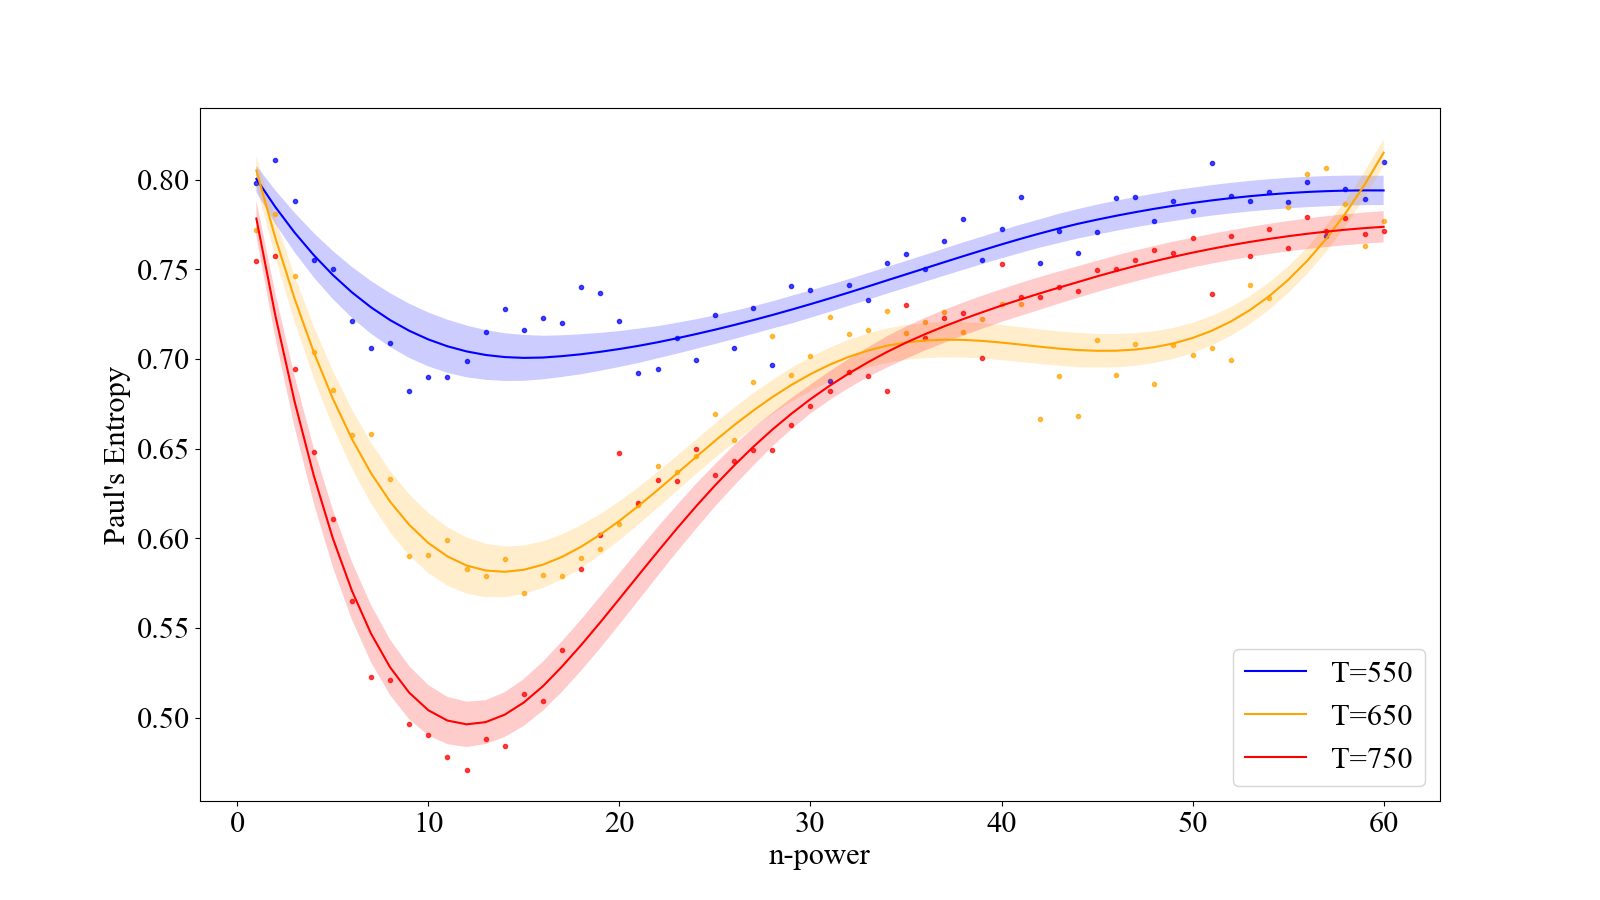
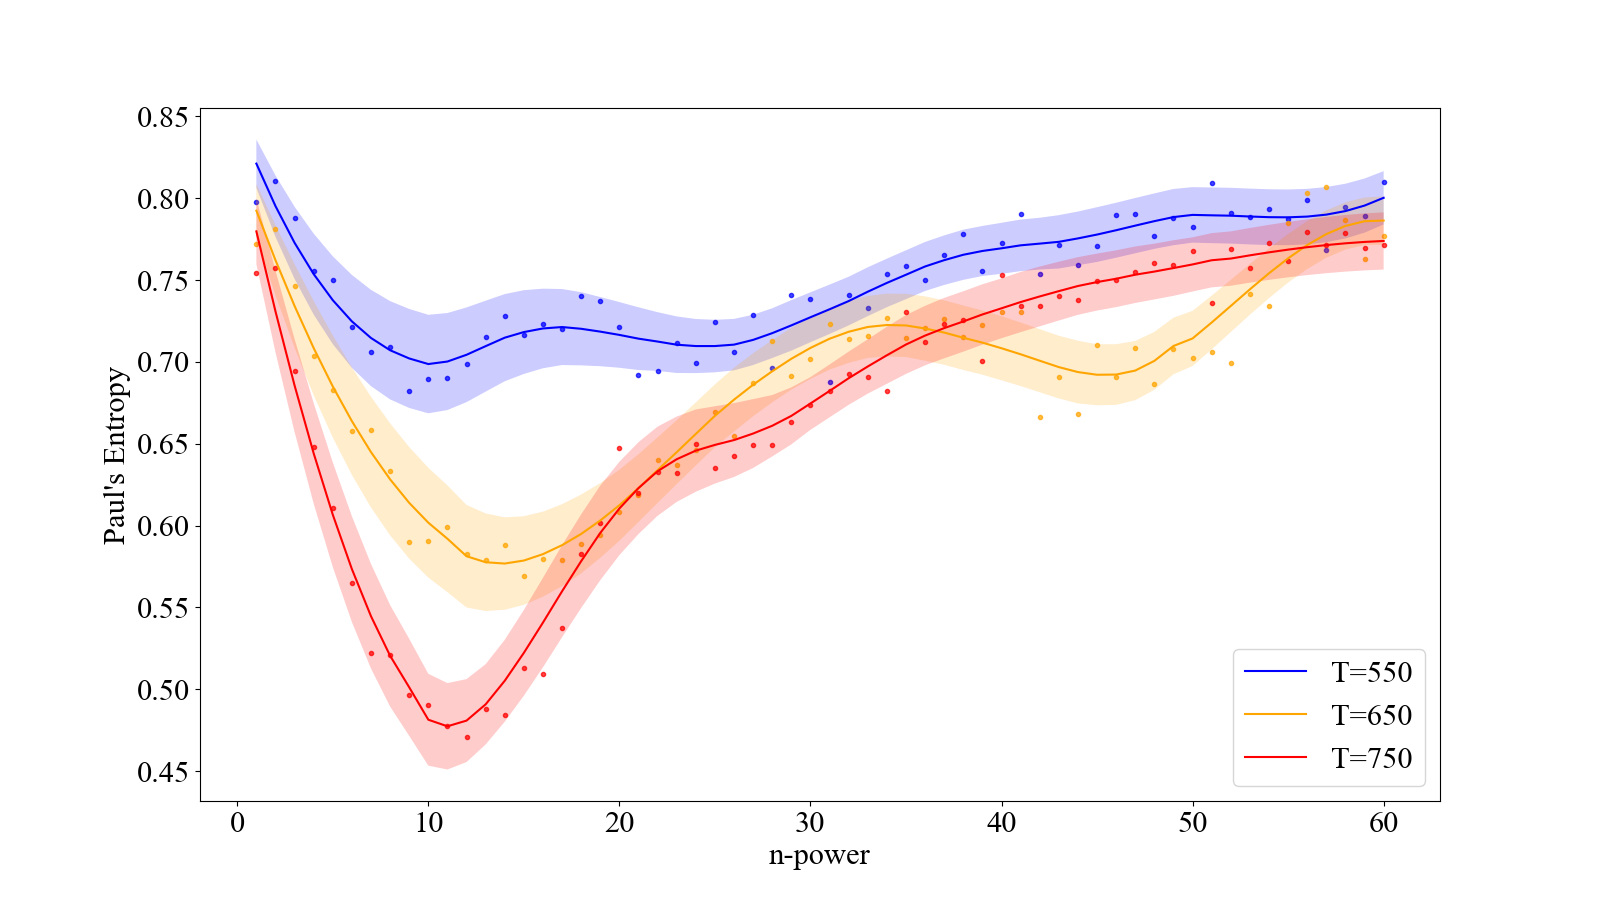
Improvements on Mutual info

diff --git a/MutualInformation/analysis_savgol.py b/MutualInformation/analysis_savgol.py
@@ -58,6 +58,8 @@ data_coefs_flat = data_coefs.reshape(Nt, Nn, N_mem, 200)
 #
 
 
+colors = ["blue", "orange", "red"]
+
 import scipy.signal as sig
 
 
@@ -65,7 +67,6 @@ import scipy.signal as sig
 # Average maximum (absolute) alpha per n
 if False:
     fig, ax = plt.subplots(1, 1, figsize=(16, 9))
-    colors = ["blue", "orange", "red"]
     window_size=[25, 27, 19]
     for h, temp in enumerate(temp_range):
         data_coefs_abs_max = np.mean(np.max(np.abs(data_coefs_flat[h]), axis=-1), axis=-1)
@@ -91,11 +92,10 @@ if False:
 
 
 # Paul Entropy is interesting and non-monotonic
-if False:
+if True:
     fig, ax = plt.subplots(1, 1, figsize=(16, 9))
 
-    colors = ["blue", "orange", "red"]
-    window_size=[33, 33, 33]
+    window_size=[9, 11, 9]
     for h, temp in enumerate(temp_range):
         p_i = np.zeros((Nn, N_mem, 10))
         entropy = np.zeros((Nn, N_mem))
@@ -115,114 +115,153 @@ if False:
                         entropy[i, j] += -p_i[i, j, d]*np.log10(p_i[i, j, d])
 
                     
-        mean_entropy_per_n = np.mean(entropy, axis=-1)
-        mean_entropy_per_n_std = np.std(entropy, axis=-1)*0.1
+        if h < 3:
+            mean_entropy_per_n = np.mean(entropy, axis=-1)
+            mean_entropy_per_n_std = np.std(entropy, axis=-1)*0.2
       
-        filtered = sig.savgol_filter(mean_entropy_per_n, window_size[h], 3)
-        filtered = sig.savgol_filter(filtered, window_size[h], 3)
-
+            filtered = sig.savgol_filter(mean_entropy_per_n, window_size[h], 3)
+            filtered = sig.savgol_filter(filtered, window_size[h]*2, 3)
         
-        ax.plot(n_range, filtered, label="T="+str(temp), color=colors[h])
-        ax.scatter(n_range, mean_entropy_per_n, marker=".", color=colors[h], alpha=0.73) #, edgecolor="k"
-        
-        delta = mean_entropy_per_n_std
-        delta = sig.savgol_filter(delta, 21, 3)
-        
-        ax.fill_between(n_range, filtered + delta, filtered-delta, alpha=0.2, facecolor=colors[h])
-        
+            ax.plot(n_range, filtered, label="T="+str(temp), color=colors[h])
+            ax.scatter(n_range, mean_entropy_per_n, marker=".", color=colors[h], alpha=0.73) #, edgecolor="k"
+            
+            delta = mean_entropy_per_n_std
+            delta = sig.savgol_filter(delta, 21, 3)
+            
+            ax.fill_between(n_range, filtered + delta, filtered-delta, alpha=0.2, facecolor=colors[h])
+            
     ax.set_xlabel("n-power")
     ax.set_ylabel("Paul's Entropy")
     ax.legend()
     plt.savefig("First_20_dominating_samples_entropy_PaulsEntropy_multiT.png")
 
 
+isFirstRun = False
+if isFirstRun:
+    # Combine number of reconstruction with Paul's Entropy
 
-# sum of alpha = 0.5 thing
-window = np.zeros((Nt, Nn, N_mem)) # reconstruct size
-alpha_tol = 0.2
-for h, temp in enumerate(temp_range):
-    for i, n in enumerate(n_range):
-   
-        for j in range(N_mem):
-            i_sort = np.argsort(np.abs(data_coefs_flat[h, i, j]), axis=-1)[::-1]
-            i_sort_sum = np.cumsum(data_coefs_flat[h, i, j, i_sort])
+    # tol = 5 # 1 maybe too strong
+    rs = np.zeros((Nt, Nn, N_mem)) # reconstruct size
+    
+    for h, temp in enumerate(temp_range):
+        for i, n in enumerate(n_range):
+            print(i)
 
-            if np.max(data_coefs_flat[h, i, j]) >= alpha_tol:
-                window[h, i, j] = np.argwhere(i_sort_sum >= alpha_tol)[0] + 1
-            else:
-                window[h, i, j] = len(data_coefs_flat[h, i, j])
+            tol = 784*0.05*np.mean(np.mean(np.abs(data_Ms[h, i]), axis=-1), axis=-1) # Variable tolerance
+            print(temp, n, tol)
 
+            for j in range(N_mem):
+                i_sort = np.argsort(np.abs(data_coefs_flat[h, i, j]), axis=-1)[::-1]
+                
+                for window in range(1, 200):
+                    rM = data_coefs_flat[h, i, j, i_sort[:window]]@data_T[i_sort[:window]]
+                    err = np.sum(np.abs(rM - data_Ms[h, i, j]))
+                    
+                    rs[h, i, j] = window
+                    if err < tol:
+                        break;
+    np.save("rs_relevant_samples.npy", rs)
 
-window_mean = np.mean(window, axis=-1)
-window_std = np.std(window, axis=-1)*0.5
+rs = np.load("rs_relevant_samples.npy")
+rs_mean = np.mean(rs, axis=-1)
+rs_std = np.std(rs, axis=-1)
 
 fig, ax = plt.subplots(1, 1, figsize=(16, 9))
 
-colors = ["blue", "orange", "red"]
-window_size = np.asarray([11, 11, 11])+6
+window_size=[11, 13, 9]
 for h, temp in enumerate(temp_range):
-    #ax.scatter(n_range, window_mean[h], label="T="+str(temp))
-      
-    filtered = sig.savgol_filter(window_mean[h], window_size[h], 4)
-    filtered = sig.savgol_filter(filtered, 7, 1)
+    filtered = sig.savgol_filter(rs_mean[h], window_size[h], 3)
+    filtered = sig.savgol_filter(filtered, window_size[h]*2, 3)
     
     ax.plot(n_range, filtered, label="T="+str(temp), color=colors[h])
-    ax.scatter(n_range, window_mean[h], marker=".", color=colors[h], alpha=0.73) #, edgecolor="k"
+    ax.scatter(n_range, rs_mean[h], marker=".", color=colors[h], alpha=0.73) #, edgecolor="k"
     
-    delta = window_std[h]
+    delta = rs_std[h]
     delta = sig.savgol_filter(delta, 21, 3)
     
     ax.fill_between(n_range, filtered + delta, filtered-delta, alpha=0.2, facecolor=colors[h])
-    
+
+
 ax.set_xlabel("n-power")
 ax.set_ylabel("Number of useful samples")
+ax.legend()
+plt.savefig("rs_relevant_samples.png")
+
+
+
+fig, ax = plt.subplots(1, 1, figsize=(16, 9))
+window_size=[11, 13, 9]
+for h, temp in enumerate(temp_range):
+    p_i = np.zeros((Nn, N_mem, 10))
+    entropy = np.zeros((Nn, N_mem))
+    for i, n in enumerate(n_range):
+        for j in range(N_mem):
+            i_sort = np.argsort(np.abs(data_coefs_flat[h, i, j]), axis=-1)[::-1]
+            i_sort_index = i_sort[:int(rs[h, i, j])]//20 # 20 here is number of samples per class used to check if index corresponds to a certain digit class
+            
+            for d in range(10):
+                p_i[i, j, d] = np.sum(i_sort_index==d)/int(rs[h, i, j])
+            
+                if p_i[i, j, d] > 0:
+                    entropy[i, j] += -p_i[i, j, d]*np.log10(p_i[i, j, d])
+                
+
+    mean_entropy_per_n = np.mean(entropy, axis=-1)
+    std_entropy_per_n = np.std(entropy, axis=-1)
+
+    filtered = sig.savgol_filter(mean_entropy_per_n, window_size[h], 3)
+    filtered = sig.savgol_filter(filtered, window_size[h]*2, 3)
+    
+    ax.plot(n_range, filtered, label="T="+str(temp), color=colors[h])
+    ax.scatter(n_range, mean_entropy_per_n, marker=".", color=colors[h], alpha=0.73) #, edgecolor="k"
+    
+    delta = std_entropy_per_n
+    delta = sig.savgol_filter(delta, 21, 3)
+    
+    ax.fill_between(n_range, filtered + delta, filtered-delta, alpha=0.2, facecolor=colors[h])
+
+
+ax.set_xlabel("n-power")
+ax.set_ylabel("Variable Binsize Paul Entropy")
+ax.legend()
+plt.savefig("VariablePaulsEntropy.png")
+
+
+
+fig, ax = plt.subplots(1, 1, figsize=(16, 9))
+window_size=[9, 13, 9]
+for h, temp in enumerate(temp_range):
+    entropy = np.zeros((Nn, N_mem))
+    for i, n in enumerate(n_range):
+        for j in range(N_mem):
+            i_sort = np.argsort(np.abs(data_coefs_flat[h, i, j]), axis=-1)[::-1]
+            i_sort_index = i_sort[:int(rs[h, i, j])]//20 # 20 here is number of samples per class used to check if index corresponds to a certain digit class
+            i_sort_windowed = i_sort[:int(rs[h, i, j])]
+            
+            norm = np.sum(np.abs(data_coefs_flat[h, i, j, i_sort_windowed]), axis=-1)
+
+            for w_i in range(int(rs[h, i, j])):
+                p_i = np.abs(data_coefs_flat[h, i, j, i_sort_windowed[w_i]])/norm
+                entropy[i, j] += -p_i*np.log10(p_i)
+
+    mean_entropy_per_n = np.mean(entropy, axis=-1)
+    std_entropy_per_n = np.std(entropy, axis=-1)
+
+    filtered = sig.savgol_filter(mean_entropy_per_n, window_size[h], 3)
+    filtered = sig.savgol_filter(filtered, window_size[h]*2, 3)
+    
+    ax.plot(n_range, filtered, label="T="+str(temp), color=colors[h])
+    ax.scatter(n_range, mean_entropy_per_n, marker=".", color=colors[h], alpha=0.73) #, edgecolor="k"
+    
+    delta = std_entropy_per_n
+    delta = sig.savgol_filter(delta, 21, 3)
+    
+    ax.fill_between(n_range, filtered + delta, filtered-delta, alpha=0.2, facecolor=colors[h])
+
+
+ax.set_xlabel("n-power")
+ax.set_ylabel("Variable Binsize Acategorical Entropy")
 ax.legend()
 plt.savefig("tmp.png")
 
 
-
-# Paul Entropy is interesting and non-monotonic
-if True:
-    fig, ax = plt.subplots(1, 1, figsize=(16, 9))
-
-    colors = ["blue", "orange", "red"]
-    window_size=[33, 33, 33]
-    for h, temp in enumerate(temp_range):
-        p_i = np.zeros((Nn, N_mem, 10))
-        entropy = np.zeros((Nn, N_mem))
-        
-       
-        for i, n in enumerate(n_range):
-            window_start = 0
-            window_end = int(window_mean[h, i]) #21 is rly good # 30 is good
-
-            for j in range(N_mem):
-                i_sort = np.argsort(np.abs(data_coefs_flat[h, i, j]), axis=-1)[::-1]
-                i_sort_index = i_sort[window_start:window_end]//20
-            
-                for d in range(10):
-                    p_i[i, j, d] = np.sum(i_sort_index==d)/(window_end - window_start)
-                    
-                    if p_i[i, j, d] > 0:
-                        entropy[i, j] += -p_i[i, j, d]*np.log10(p_i[i, j, d])
-
-                    
-        mean_entropy_per_n = np.mean(entropy, axis=-1)
-        mean_entropy_per_n_std = np.std(entropy, axis=-1)*0.1
-      
-        filtered = sig.savgol_filter(mean_entropy_per_n, window_size[h], 3)
-        filtered = sig.savgol_filter(filtered, window_size[h], 3)
-
-        
-        #ax.plot(n_range, filtered, label="T="+str(temp), color=colors[h])
-        ax.scatter(n_range, mean_entropy_per_n, marker=".", color=colors[h], alpha=0.73) #, edgecolor="k"
-        
-        delta = mean_entropy_per_n_std
-        delta = sig.savgol_filter(delta, 21, 3)
-        
-        #ax.fill_between(n_range, filtered + delta, filtered-delta, alpha=0.2, facecolor=colors[h])
-        
-    ax.set_xlabel("n-power")
-    ax.set_ylabel("Paul's Entropy")
-    ax.legend()
-    plt.savefig("tmp.png")

diff --git a/MutualInformation/analysis.py b/MutualInformation/analysis.py
@@ -97,3 +97,4 @@ if True:
 
 
 
+
